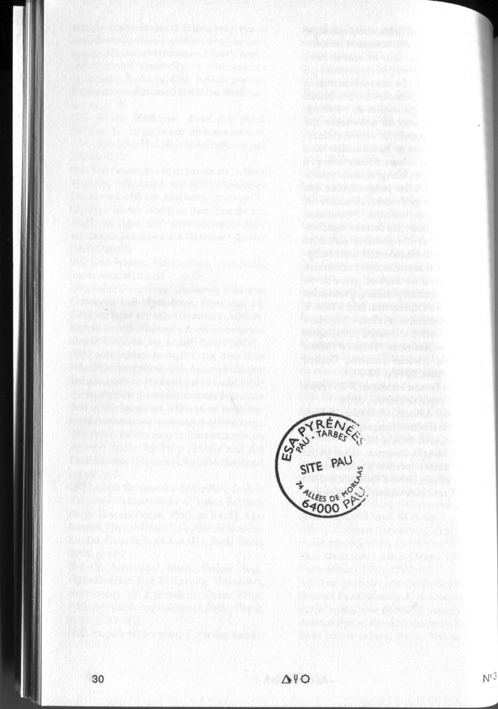
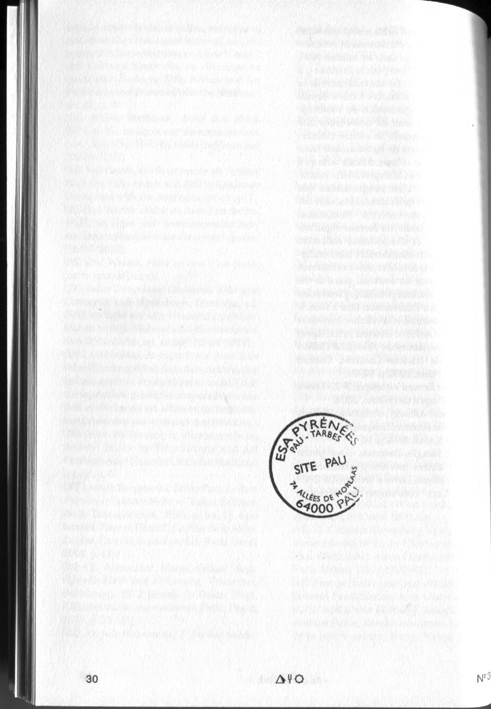
mise en page turtle pyramide diapason roue crantée

diff --git a/TEX/photos_textes_sessions1.tex b/TEX/photos_textes_sessions1.tex
@@ -34,35 +34,35 @@ Today, Turtle graphics implementations are available for all major desktop and m
         backspace=0mm,
         cutspace=0mm,
         topspace=0mm,
-        bottomspace=0mm,
+        bottomspace=10mm,
         width=110mm,
         height=170mm,
         leftmargin=5mm,
-        rightmargin=25mm,
+        rightmargin=-30mm,
         footer=0mm,
-        header=0mm, % removes header
+        header=30mm, % removes header
         grid=yes, % activates baseline grid
         ]
 
 \stopalignment
    \page
-   \externalfigure [../IMAGES/tortue/2.jpg] [width=12cm] 
-  \externalfigure [../IMAGES/tortue/3.jpg] [width=12cm] 
-  \externalfigure [../IMAGES/tortue/4.jpg] [width=12cm] \page
-  \externalfigure [../IMAGES/tortue/5.jpg] [width=12cm] \page
-  \externalfigure [../IMAGES/tortue/7.jpg] [width=12cm] \page
-  \externalfigure [../IMAGES/tortue/8.jpg] [width=12cm] \page
-  \externalfigure [../IMAGES/tortue/9.jpg] [width=12cm] \page
-  \externalfigure [../IMAGES/tortue/10.jpg] [width=12cm] \page
-  \externalfigure [../IMAGES/tortue/11.jpg] [width=12cm] \page
-  \externalfigure [../IMAGES/tortue/12.jpg] [width=12cm] \page
-  \externalfigure [../IMAGES/tortue/13.jpg] [width=12cm] \page
-  \externalfigure [../IMAGES/tortue/14.jpg] [width=12cm] \page
-  \externalfigure [../IMAGES/tortue/15.jpg] [width=12cm] \page
-  \externalfigure [../IMAGES/tortue/16.jpg] [width=12cm] \page
-   \externalfigure [../IMAGES/tortue/18.jpg] [width=12cm] \page
-  \externalfigure [../IMAGES/tortue/19.jpg] [width=11cm] \page
-  \externalfigure [../IMAGES/tortue/20.jpg] [width=11cm]\page
+   \externalfigure [../IMAGES/tortue/2.jpg] [width=14cm] 
+  \externalfigure [../IMAGES/tortue/3.jpg] [width=14cm]  \page
+  \externalfigure [../IMAGES/tortue/4.jpg] [width=14cm] \page
+  \externalfigure [../IMAGES/tortue/5.jpg] [width=14cm] \page
+  \externalfigure [../IMAGES/tortue/7.jpg] [width=14cm] \page
+  \externalfigure [../IMAGES/tortue/8.jpg] [width=14cm]  \page
+  \externalfigure [../IMAGES/tortue/9.jpg] [width=14cm]  \page
+  \externalfigure [../IMAGES/tortue/10.jpg] [width=14cm]  \page
+  \externalfigure [../IMAGES/tortue/11.jpg] [width=14cm]  \page
+  \externalfigure [../IMAGES/tortue/12.jpg] [width=14cm]  \page
+  \externalfigure [../IMAGES/tortue/13.jpg] [width=14cm]  \page
+  \externalfigure [../IMAGES/tortue/14.jpg] [width=14cm]  \page
+  \externalfigure [../IMAGES/tortue/15.jpg] [width=14cm]  \page
+  \externalfigure [../IMAGES/tortue/16.jpg] [width=14cm]  \page
+   \externalfigure [../IMAGES/tortue/18.jpg] [width=14cm]  \page
+  \externalfigure [../IMAGES/tortue/19.jpg] [width=14cm]  \page
+  \externalfigure [../IMAGES/tortue/20.jpg] [width=14cm] \page
 
 \setuplayout[ 
         backspace=20mm,
